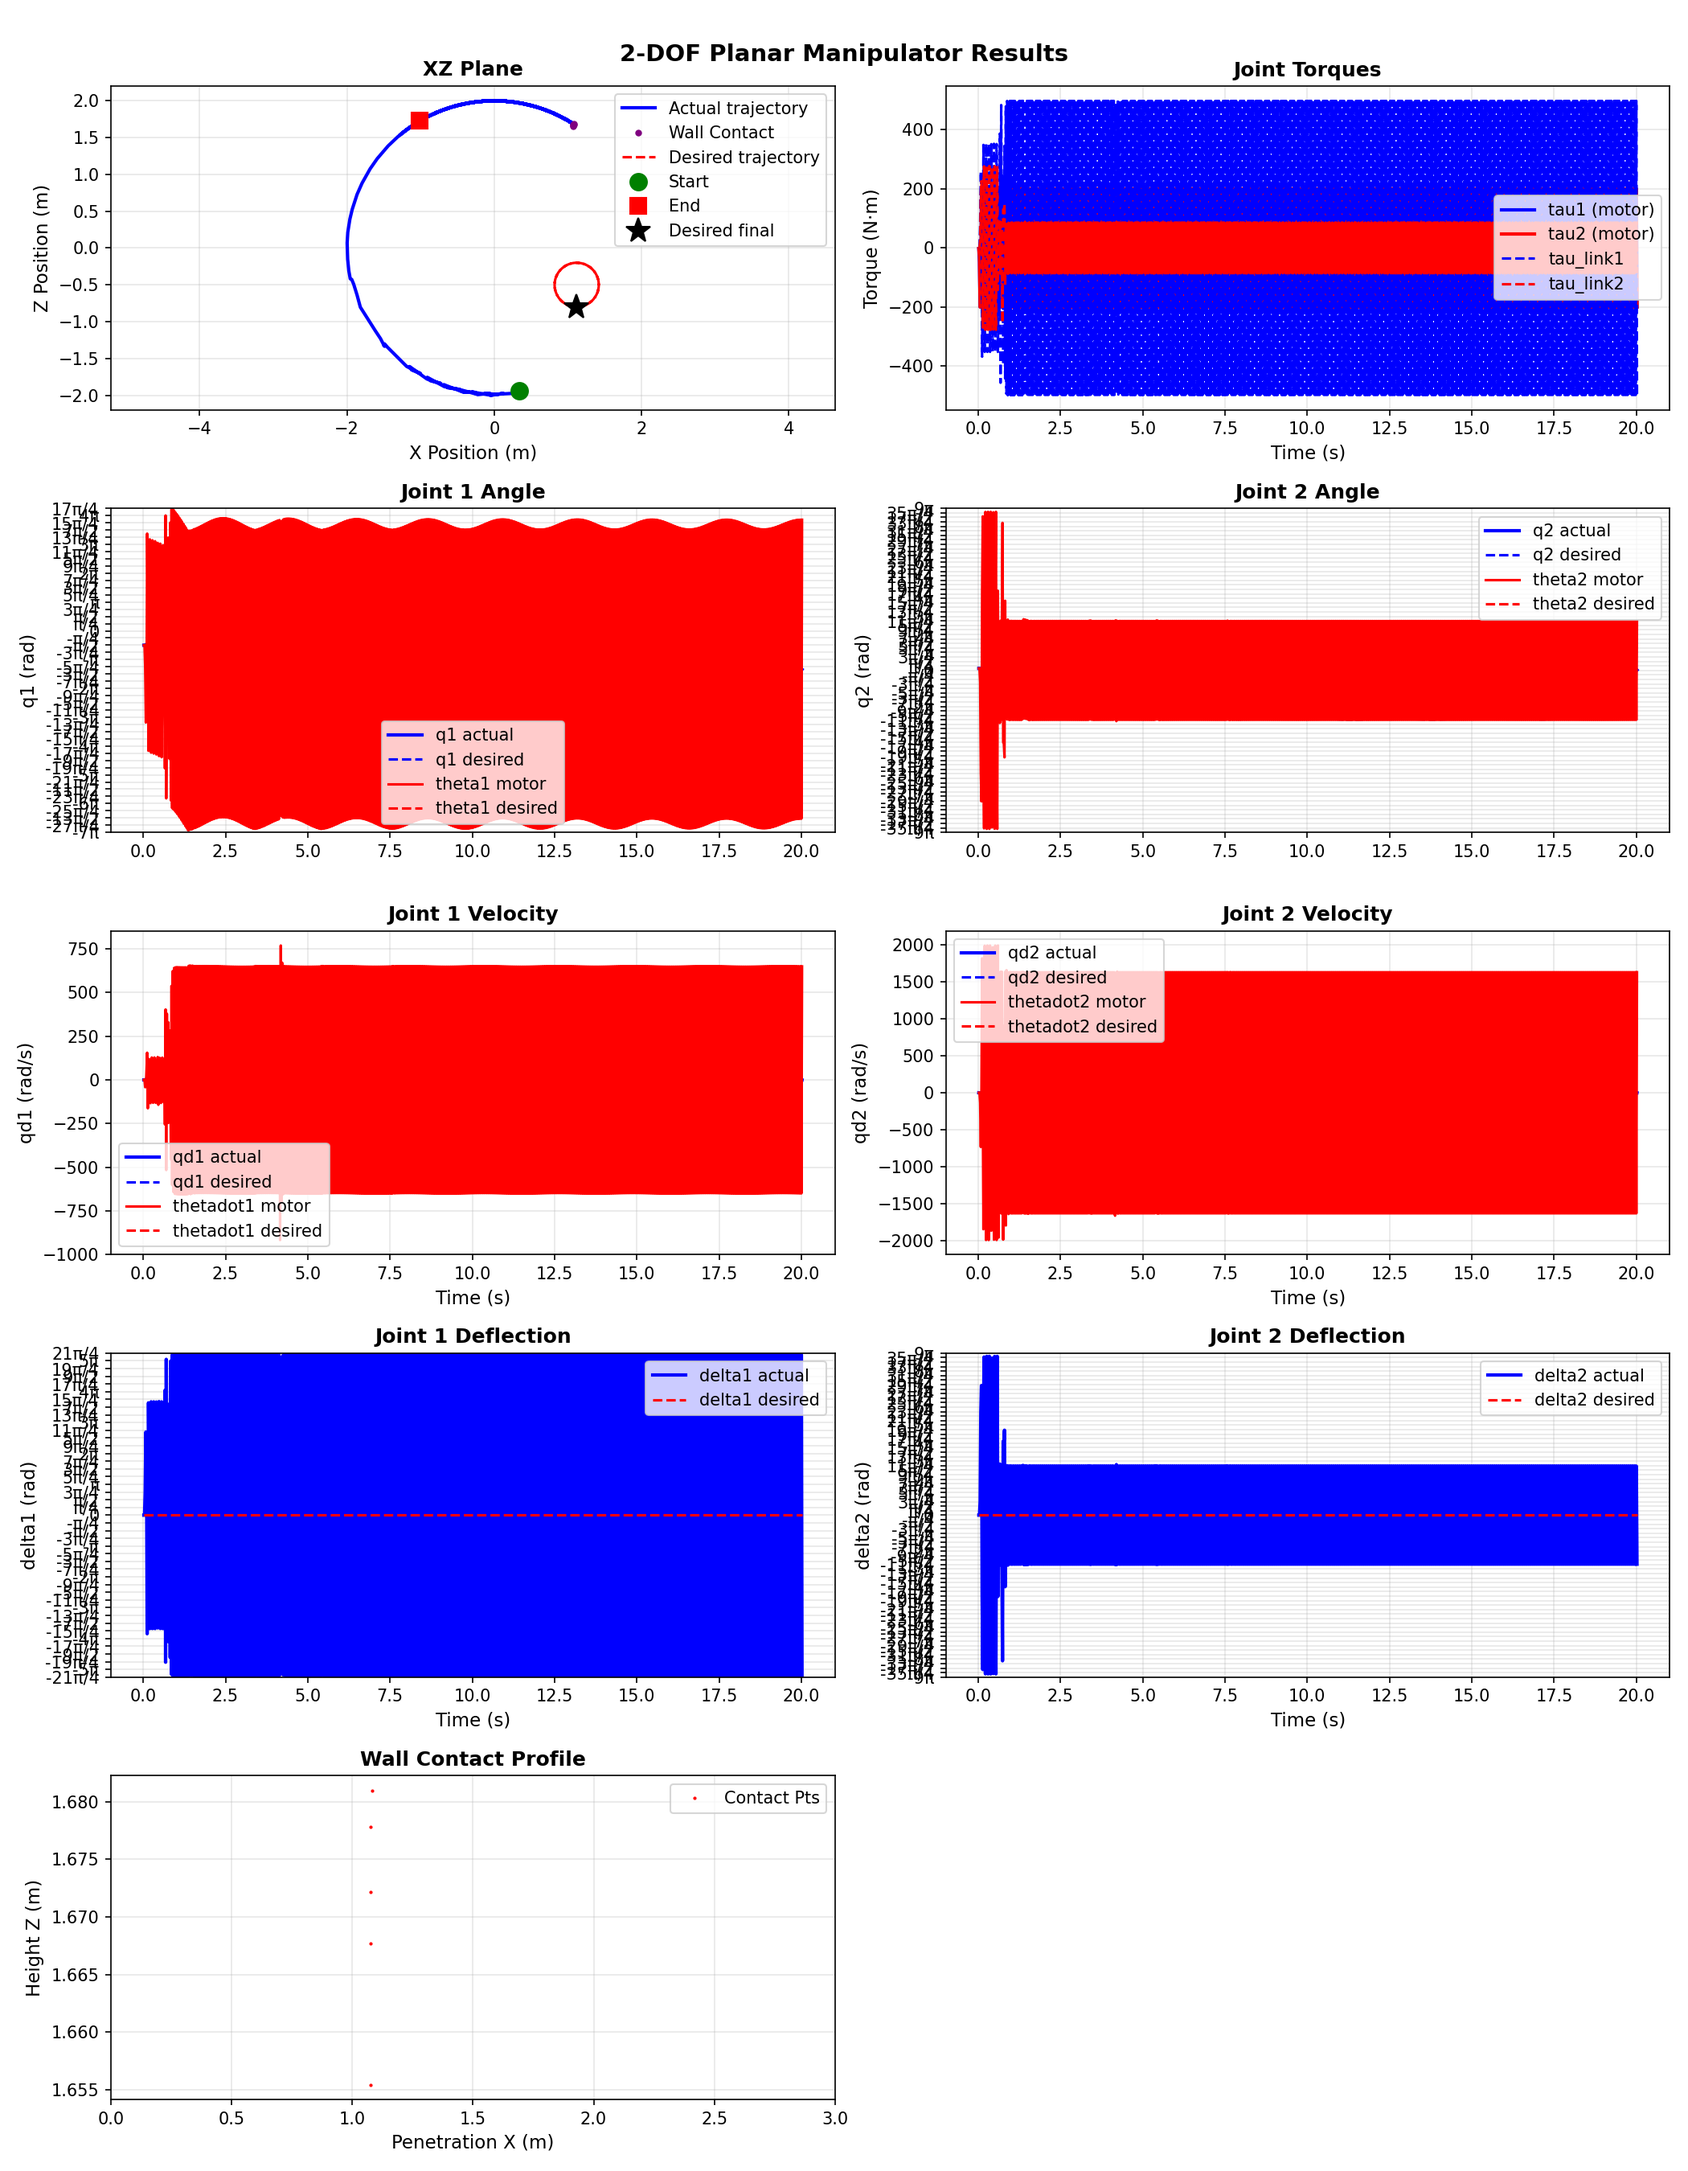
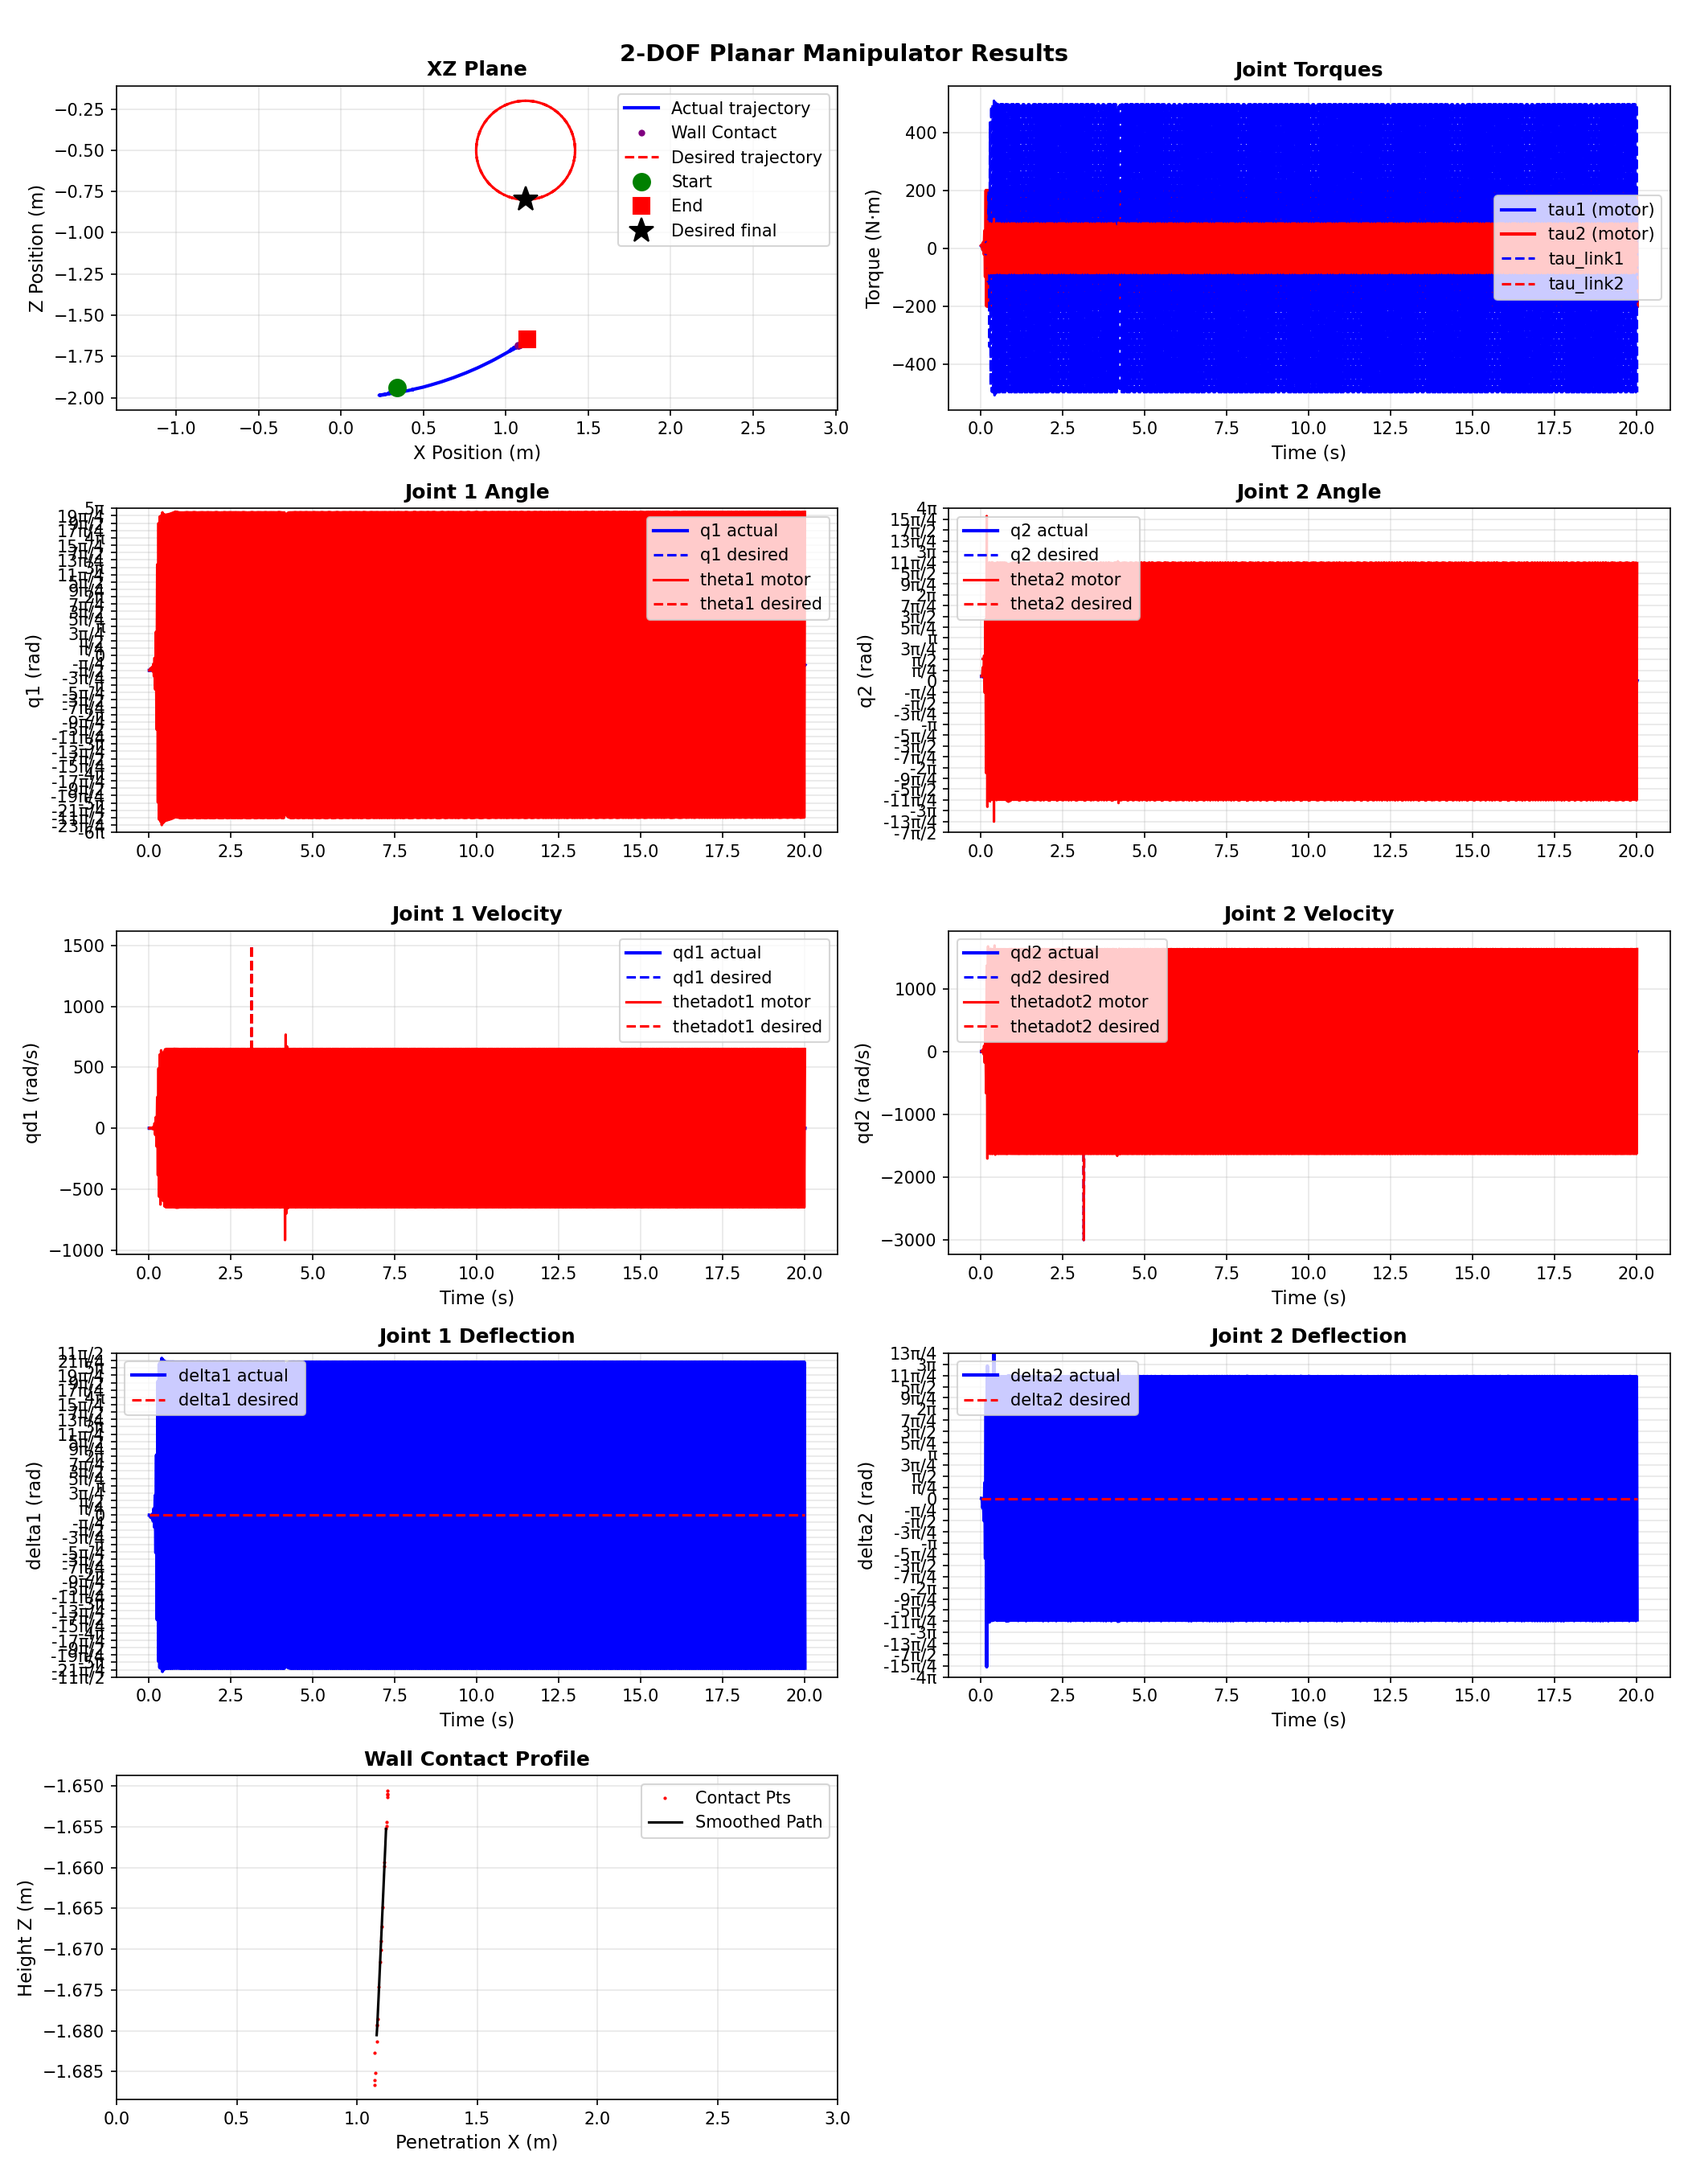
idk what change i made

diff --git a/Coursework_student.py b/Coursework_student.py
@@ -124,143 +124,69 @@ def jacobian(phi1: float, phi2: float, L1: float, L2: float):
 
 def controller(q: np.ndarray,
                qd: np.ndarray,
+               theta: np.ndarray,      # <-- ADDED: Current motor positions
+               theta_dot: np.ndarray,  # <-- Current motor velocities
                x_des: float,
                z_des: float,
                xd_des: float,
                zd_des: float,
-               xdd_des: float,
-               zdd_des: float,
-               dt: float,
-               theta_dot: float,
-               theta_ddot: float,
-               F_des: np.ndarray = None,
-               tip_force: np.ndarray = None):
+               dt: float):
     
-    # 1. Kinematics & Errors
-    J_cur = jacobian(q[0], q[1], L1, L2)
-    c_current = forward_kinematics(q[0], q[1])
-    c_des = np.array([x_des, z_des])
-    Ce = c_des - c_current
+    # ---------------------------------------------------------
+    # STEP A: Calculate required spring deflection 
+    # ---------------------------------------------------------
     
-    # joint space and velocity error
-    J_cur = jacobian(q[0], q[1], L1, L2)
-    qd_des = np.linalg.pinv(J_cur) @ np.array([xd_des, zd_des])
-    global q_des_prev
-    q_des = q_des_prev + qd_des * dt
-    q_des_prev = q_des.copy()
-    q_err = q_des - q
-    qd_err = qd_des - qd# 2. Gains (Adjust these to prevent the wall from moving too much)
-
-
-    # Task-space velocity error
-    c_dot = J_cur @ qd
-    c_dot_des = np.array([xd_des, zd_des])
-    c_dot_err = c_dot_des - c_dot
-
-    #task pace acceleration error
-    c_ddot_des = np.array([xdd_des,zdd_des])
+    # 1. Use Inverse Kinematics to find desired link position (q_des)
+    q_target = inverse_kinematics(x_des, z_des, elbow_up=False)
+    if q_target is None:
+        q_target = q.copy() # Fallback if out of reach
+    q_des = q_target
     
-    if not hasattr(controller, "c_dot_prev"):
-            controller.c_dot_prev = c_dot.copy()
-    c_ddot = (c_dot - controller.c_dot_prev) / dt
-    controller.c_dot_prev = c_dot.copy()
+    # 2. Calculate desired joint velocities (qd_des) using the Jacobian
+    J_des = jacobian(q_des[0], q_des[1], L1, L2)
+    try:
+        qd_des = np.linalg.pinv(J_des) @ np.array([xd_des, zd_des])
+    except:
+        qd_des = np.zeros(2)
 
-    # fliter
-    if not hasattr(controller, "c_ddot_filt_prev"):
-            controller.c_ddot_filt_prev = c_ddot.copy()
-    alpha_ddot = 0.5
-    c_ddot = alpha_ddot * controller.c_ddot_filt_prev + (1.0 - alpha_ddot) * c_ddot
-    controller.c_ddot_filt_prev = c_ddot.copy()
-
-    c_ddot_err = c_ddot_des - c_ddot
-
-    # 3. Gravity Cancellation for the links
-    m1, m2 = 1.5, 1.5 # From simulator_setup.py
+    # 3. Calculate gravity compensation (Torque required to hold links up)
+    m1, m2 = 1.5, 1.5
     g = 9.81
-    lc1, lc2 = L1/2, L2/2
-    r = 0.15
-    r_rotor = 0.08
-
-    # Motor inertias (solid sphere, used in J term)
-    Jm = np.array([2/5 * 0.5 * r_rotor**2,   # rotor1: 0.00128 kg·m²
-                2/5 * 0.4 * r_rotor**2])  # rotor2: 0.001024 kg·m²
-
-    # Motor damping (from RevoluteJoint damping parameter)
-    Dm = np.array([0.1, 0.1])    # N·m·s/rad
-
-    # Inertia matrix M(q)
-    I1 = 2/5*m1*r**2   
-    I2 = 2/5*m2*r**2  
-    M11 = I1 + I2 + m1*lc1**2 + m2*(L1**2 + lc2**2 + 2*L1*lc2*math.cos(q[1]))
-    M12 = I2 + m2*(lc2**2 + L1*lc2*math.cos(q[1]))
-    M21 = I2 + m2*(lc2**2 + L1*lc2*math.cos(q[1]))
-    M22 = I2 + m2*lc2**2
-    M = np.array([[M11, M12],
-                  [M21, M22]])
+    lc1, lc2 = L1 / 2, L2 / 2
     
-    # Coriolis matrix C(q, qdot)
-    C11 = -m2 * L1 * lc2 * math.sin(q[1]) * qd[1]
-    C12 = -m2 * L1 * lc2 * math.sin(q[1]) * (qd[0] + qd[1])
-    C21 =  m2 * L1 * lc2 * math.sin(q[1]) * qd[0]
-    C22 = 0.0
-    C = np.array([[C11, C12],
-                [C21, C22]])
+    # Positive torque required to counteract the downward pull of gravity
+    G_comp1 = g * (m1 * lc1 * math.cos(q_des[0]) + 
+                   m2 * L1  * math.cos(q_des[0]) + 
+                   m2 * lc2 * math.cos(q_des[0] + q_des[1]))
     
-    # Gravity vector G(q_des)
-
-    tauG1comp = -g * (m1 * lc1 * math.cos(q_des[0])
-                    + m2 * L1  * math.cos(q_des[0])
-                    + m2 * lc2 * math.cos(q_des[0] + q_des[1])
-                    )
-
-    tauG2comp = -g * (m2 * lc2 * math.cos(q_des[0] + q_des[1])
-                        ) 
-
-    # Gravity vector G(q)
-    tauG1canc = -g * (m1 * lc1 * math.cos(q[0]) + m2 * L1 * math.cos(q[0]) + m2 * lc2 * math.cos(q[0] + q[1]))
-    tauG2canc = -g * (m2 * lc2 * math.cos(q[0] + q[1]))
-
-
-    tauGcomp = np.array([tauG1comp, tauG2comp])
-    tauGcanc = np.array([tauG1canc, tauG2canc])
-
-        
-    # Operational Space Control 
-    J_dot = np.array([
-        [-L1 * math.cos(q[0]) * qd[0] - L2 * math.cos(q[0] + q[1]) * (qd[0] + qd[1]), -L2 * math.cos(q[0] + q[1]) * (qd[0] + qd[1])],
-        [-L1 * math.sin(q[0]) * qd[0] - L2 * math.sin(q[0] + q[1]) * (qd[0] + qd[1]), -L2 * math.sin(q[0] + q[1]) * (qd[0] + qd[1])]
-    ])
-
-    J_inv = np.linalg.pinv(J_cur)
-    J_inv_T = J_inv.T
-
-    Lambda = J_inv_T @ M @ J_inv
-    Gamma = J_inv_T @ C @ J_inv - Lambda @ J_dot @ J_inv
-    eta = J_inv_T @ tauGcanc
+    G_comp2 = g * (m2 * lc2 * math.cos(q_des[0] + q_des[1]))
+    G_comp = np.array([G_comp1, G_comp2])
     
-    if np.linalg.norm(tip_force) > 1.0:   # in contact
-        Mc = np.diag([1.0, 1.0])    
-        Kc = np.diag([20.0, 20.0])  
-        Dc = np.diag([30.0, 30.0])
-    else:                                   # free motion
-        Mc = np.diag([1.0, 1.0])    
-        Kc = np.diag([2.0, 100.0])    
-        Dc = np.diag([60.0, 40.0])  # High damping is the key — kills the bounce
-            
-    #c_ddot = c_ddot_des + Dc @ c_dot_des + Kc @ Ce
-    J_dot_qd = J_dot @ qd
-    # Impedance controller
-
-    #fc = Lambda @ c_ddot+ Gamma @ c_dot + eta + Mc @ c_ddot_err + Dc @ c_dot_err + Kc @ Ce
-    fc = Lambda @ c_ddot+ Gamma @ c_dot + eta + Jm @ theta_dot + Dm @ theta_ddot
-    tau = J_cur.T @ fc
-
-
-    # Saturation and numerical safety
+    # 4. Calculate desired motor position (theta_des)
+    # We want the spring torque K*(theta_des - q_des) to equal G_comp
+    K_spring = np.array([k1, k2]) 
+    theta_des = q_des + (G_comp / K_spring)
+    
+    # We approximate the desired motor velocity as the desired link velocity
+    thetadot_des = qd_des
+    
+    # ---------------------------------------------------------
+    # STEP B: Motor PD Control
+    # ---------------------------------------------------------
+    
+    # 5. Tuning gains for the motors
+    # (Adjust these if the arm is too jittery or too sluggish)
+    Kp = np.array([15.0, 5.0])   # ~0.5 × k_spring, not 200
+    Kd = np.array([0.5, 0.25]) 
+    
+    # 6. Apply PD control law to drive the motor to theta_des
+    tau = Kp * (theta_des - theta) + Kd * (thetadot_des - theta_dot)
+    
+    # Saturation and numerical safety (Do not modify)
     tau = np.clip(tau, -float(TORQUE_LIMIT), float(TORQUE_LIMIT))
     tau = np.nan_to_num(tau, nan=0.0, posinf=float(TORQUE_LIMIT), neginf=-float(TORQUE_LIMIT))
+    
     return tau, q_des, qd_des
-
 
 # ============================================
 # SIMULATION LOOP WITH COMPLETE CONTROL
@@ -349,9 +275,8 @@ while t < T_final:
             tip_force -= force_on_A
 
 
-    des_force = np.array([1.0, 0.0, 0.0])
-    tau, q_des, qd_des = controller(q, qd, x_des, z_des, xd_des, zd_des, xdd_des, zdd_des, dt_vis,thetadot, thetadotdot,  F_des=des_force, tip_force=tip_force)
     
+    tau, q_des, qd_des = controller(q, qd, theta, thetadot, x_des, z_des, xd_des, zd_des, dt_vis)    
     # -----Please don't modify the wall_force in here ------
     u = np.array([tau[0], tau[1] , wall_force])
     plant.get_actuation_input_port().FixValue(plant_context, u)
